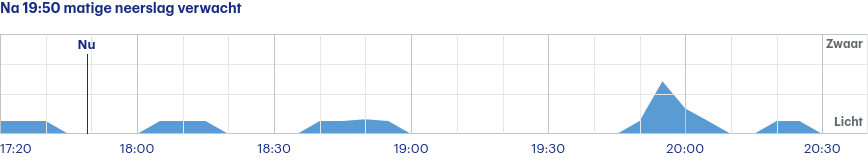
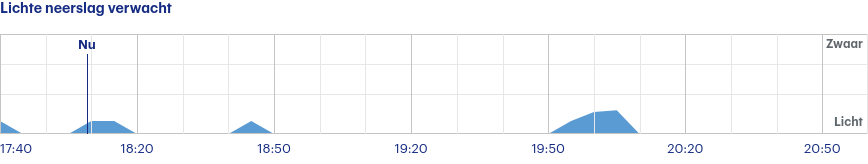
Latest scraping buienradar: Mon Jul 24 16:00:34 UTC 2023

diff --git a/scrapes/buienradar/buienradar-jette-3-uur.md b/scrapes/buienradar/buienradar-jette-3-uur.md
@@ -1,4 +1,4 @@
-Na 19:50 matige neerslag verwacht
+Lichte neerslag verwacht
 
 ![](buienradar-jette-3-uur.png)
 
